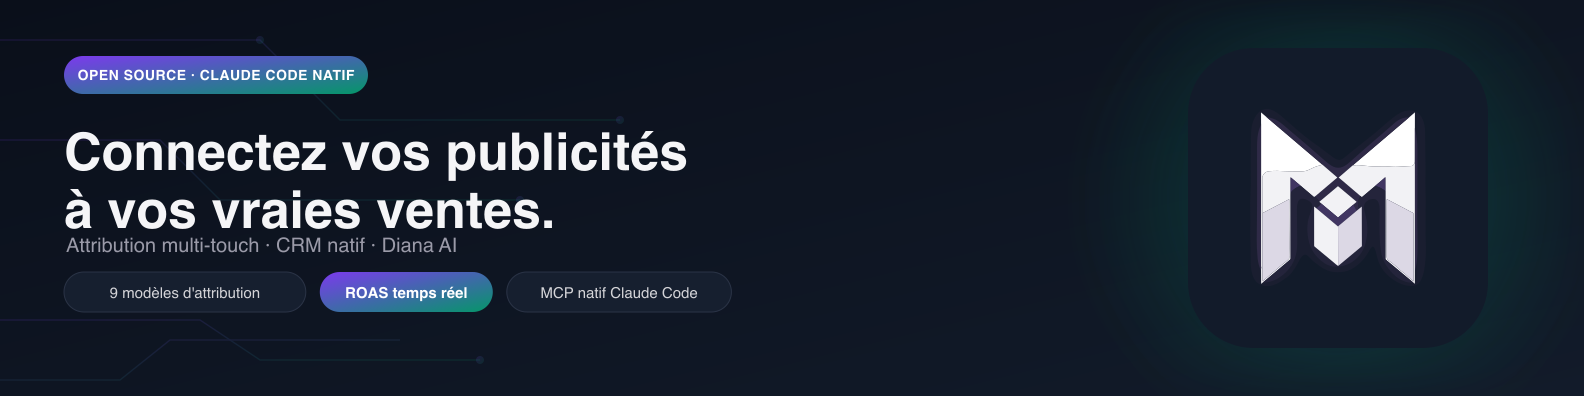
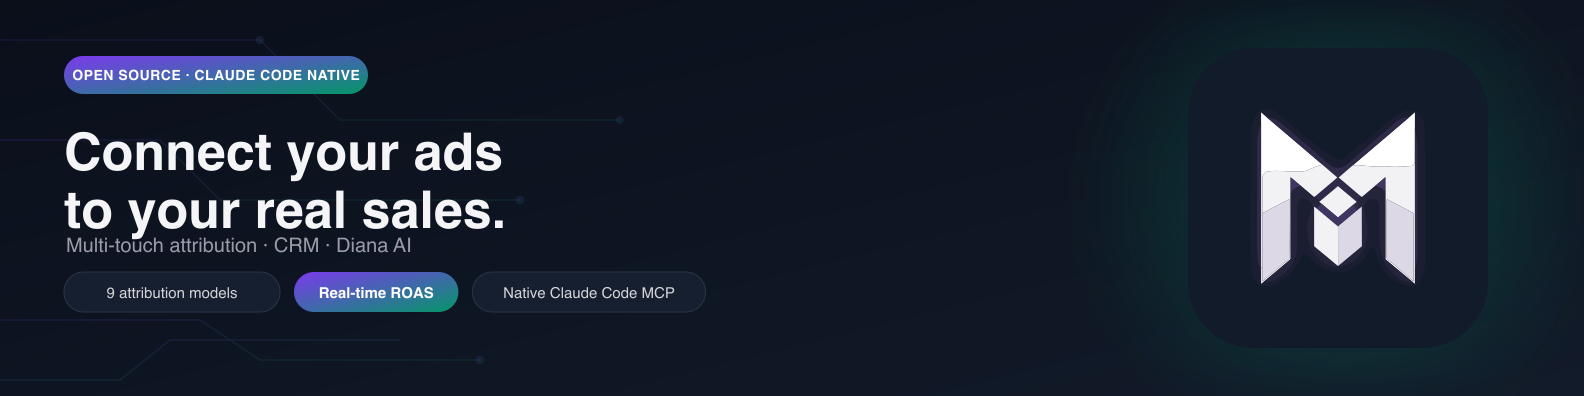
fix: translate org profile to English, drop tech stack section
Page must not leak internal stack details. Removed the backend/frontend
badge section entirely and rewrote all copy in English.

diff --git a/profile/README.md b/profile/README.md
@@ -1,106 +1,79 @@
 <picture>
   <source media="(prefers-color-scheme: dark)" srcset="https://raw.githubusercontent.com/metrikia-io/.github/main/assets/banner-dark.png">
   <source media="(prefers-color-scheme: light)" srcset="https://raw.githubusercontent.com/metrikia-io/.github/main/assets/banner-light.png">
-  <img alt="Metrikia - Connectez vos publicités à vos vraies ventes" src="https://raw.githubusercontent.com/metrikia-io/.github/main/assets/banner-light.png">
+  <img alt="Metrikia - Connect your ads to your real sales" src="https://raw.githubusercontent.com/metrikia-io/.github/main/assets/banner-light.png">
 </picture>
 
 <div align="center">
 
-# Le centre de contrôle des business high-ticket
+# The Control Center for High-Ticket Businesses
 
-**Attribution multi-touch, CRM et IA, connectés à vos vraies ventes**
+**Multi-touch attribution, CRM, and AI, connected to your real sales**
 
 [![Site](https://img.shields.io/badge/🌐_Site-metrikia.io-7c3aed?style=for-the-badge)](https://www.metrikia.io)
 [![Contact](https://img.shields.io/badge/📧_Contact-contact@metrikia.io-059669?style=for-the-badge)](mailto:contact@metrikia.io)
-[![Vos chiffres](https://img.shields.io/badge/🎯_Découvrir_mes_vrais_chiffres-FF6B35?style=for-the-badge)](https://www.metrikia.io)
+[![Your numbers](https://img.shields.io/badge/🎯_See_your_real_numbers-FF6B35?style=for-the-badge)](https://www.metrikia.io)
 
 </div>
 
 ---
 
-## 🚀 Ce que fait Metrikia
+## 🚀 What Metrikia does
 
-Metrikia corrèle vos investissements publicitaires (Meta, Google, TikTok) avec vos vraies ventes CRM pour calculer un ROI réel, pas estimé.
+Metrikia correlates your ad spend (Meta, Google, TikTok) with your real CRM sales to calculate ROI that is actually real, not estimated.
 
-| Module | Ce que ça fait |
-|--------|-----------------|
-| **Track** | Attribution multi-touch (9 modèles, dont Shapley et Markov), analyse créative, mapping de parcours |
-| **Manage** | CRM & pipeline, workflows setter/closer, scoring de leads par IA |
-| **Optimize** | Diana AI : recommandations stratégiques, optimisation budgétaire, détection d'anomalies |
-| **Connect** | Intégrations Meta / Google / TikTok / Stripe / Calendly, MCP natif Claude Code, API & webhooks |
+| Module | What it does |
+|--------|---------------|
+| **Track** | Multi-touch attribution (9 models, including Shapley and Markov), creative analysis, journey mapping |
+| **Manage** | CRM & pipeline, setter/closer workflows, AI-driven lead scoring |
+| **Optimize** | Diana AI: strategic recommendations, budget optimization, anomaly detection |
+| **Connect** | Meta / Google / TikTok / Stripe / Calendly integrations, native Claude Code MCP, API & webhooks |
 
 <details>
-<summary><strong>📊 En bref</strong></summary>
+<summary><strong>📊 At a glance</strong></summary>
 
-- Setup en moins de **5 minutes**, sans développeur
-- **9 modèles d'attribution** dont Shapley et Markov
-- Connectivité **AI-native** via MCP : campagnes, leads, attribution et insights Diana directement dans Claude
-- Pensé pour les Media Buyers, Creative Strategists, Performance Managers et agences
+- Setup in under **5 minutes**, no developer required
+- **9 attribution models**, including Shapley and Markov
+- **AI-native** connectivity via MCP: campaigns, leads, attribution, and Diana insights, straight inside Claude
+- Built for Media Buyers, Creative Strategists, Performance Managers, and agencies
 
 </details>
 
 ---
 
-## 🛠 Notre Stack Technique
-
-<div align="center">
-
-### Backend & Data
-![Symfony](https://img.shields.io/badge/Symfony-000000?style=for-the-badge&logo=symfony&logoColor=white)
-![PostgreSQL](https://img.shields.io/badge/PostgreSQL_+_pgvector-316192?style=for-the-badge&logo=postgresql&logoColor=white)
-![Redis](https://img.shields.io/badge/Redis-DC382D?style=for-the-badge&logo=redis&logoColor=white)
-
-### Frontend
-![React](https://img.shields.io/badge/React_19-61DAFB?style=for-the-badge&logo=react&logoColor=black)
-![TypeScript](https://img.shields.io/badge/TypeScript-3178C6?style=for-the-badge&logo=typescript&logoColor=white)
-![Tailwind](https://img.shields.io/badge/Tailwind_CSS-06B6D4?style=for-the-badge&logo=tailwindcss&logoColor=white)
-
-### AI & Intelligence
-![Claude](https://img.shields.io/badge/Claude_AI-191919?style=for-the-badge&logo=anthropic&logoColor=white)
-![LangChain](https://img.shields.io/badge/LangChain-1C3C3C?style=for-the-badge&logo=langchain&logoColor=white)
-![Python](https://img.shields.io/badge/Python-3776AB?style=for-the-badge&logo=python&logoColor=white)
-
-### Infrastructure
-![Docker](https://img.shields.io/badge/Docker-2496ED?style=for-the-badge&logo=docker&logoColor=white)
-![GitHub Actions](https://img.shields.io/badge/GitHub_Actions-2088FF?style=for-the-badge&logo=github-actions&logoColor=white)
-
-</div>
-
----
-
-## 📂 Projets Open Source
+## 📂 Open Source Projects
 
 | Repository | Description |
 |------------|-------------|
-| [`metrikia-claude-plugin`](https://github.com/metrikia-io/metrikia-claude-plugin) | 🔌 Plugin Claude Code : campagnes, leads, attribution et insights Diana AI directement dans votre assistant, via MCP et OAuth |
-| [`marketing-skills`](https://github.com/metrikia-io/marketing-skills) | 🎯 Claude Skills open source pour l'analyse marketing, l'attribution et la performance publicitaire |
+| [`metrikia-claude-plugin`](https://github.com/metrikia-io/metrikia-claude-plugin) | 🔌 Claude Code plugin: campaigns, leads, attribution, and Diana AI insights, directly in your assistant, via MCP and OAuth |
+| [`marketing-skills`](https://github.com/metrikia-io/marketing-skills) | 🎯 Open source Claude Skills for marketing analytics, attribution, and ad performance |
 
-> 💡 **Notre plateforme SaaS est propriétaire** - [Réservez une démo](https://www.metrikia.io) pour un accès personnalisé
+> 💡 **Our SaaS platform is proprietary** - [book a demo](https://www.metrikia.io) for personalized access
 
 ---
 
-## 📈 Nos Engagements
+## 📈 Our Commitments
 
 <div align="center">
 
-| Métrique | Engagement |
+| Metric | Commitment |
 |:--------:|:----------:|
-| ⚡ **Setup** | < 5 minutes |
-| 🎯 **Modèles d'attribution** | 9, dont Shapley et Markov |
-| 💬 **Support** | Réponse < 24h |
-| 🔒 **Garantie** | Satisfait ou remboursé 30 jours |
+| ⚡ **Setup** | Under 5 minutes |
+| 🎯 **Attribution models** | 9, including Shapley and Markov |
+| 💬 **Support** | Response under 24h |
+| 🔒 **Guarantee** | 30-day money-back |
 
 </div>
 
 ---
 
-## 🤝 Travaillons ensemble
+## 🤝 Let's work together
 
 <div align="center">
 
-**Vos publicités génèrent des ventes. Prouvez-le.**
+**Your ads generate sales. Prove it.**
 
-[![Découvrir mes vrais chiffres](https://img.shields.io/badge/🎯_Découvrir_mes_vrais_chiffres-FF6B35?style=for-the-badge)](https://www.metrikia.io)
+[![See your real numbers](https://img.shields.io/badge/🎯_See_your_real_numbers-FF6B35?style=for-the-badge)](https://www.metrikia.io)
 
 ---
 
@@ -113,9 +86,9 @@ Metrikia corrèle vos investissements publicitaires (Meta, Google, TikTok) avec 
 <div align="center">
 <sub>
 
-**Metrikia** - Le centre de contrôle des business high-ticket
+**Metrikia** - The Control Center for High-Ticket Businesses
 
-*Attribution réelle • Décisions éclairées • ROI mesurable*
+*Real attribution • Informed decisions • Measurable ROI*
 
 </sub>
 </div>
